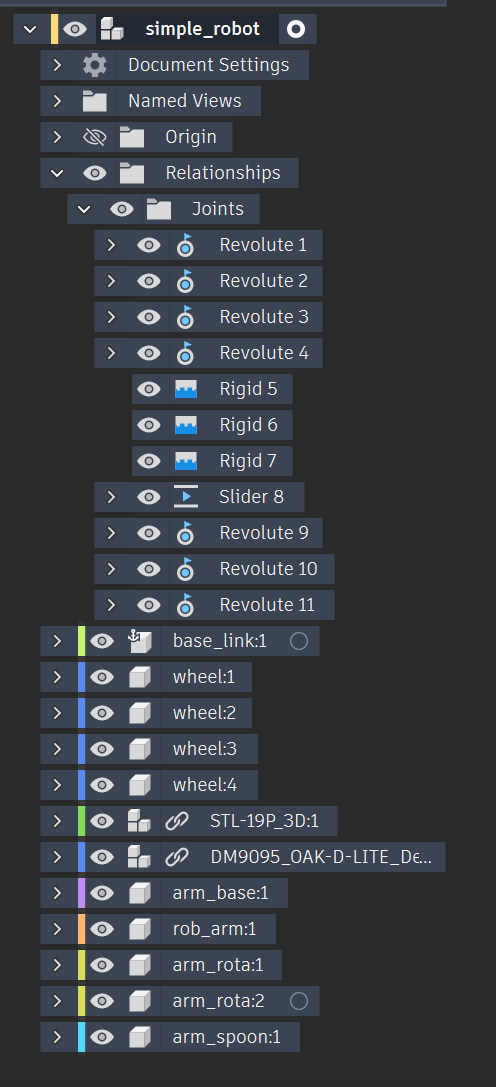
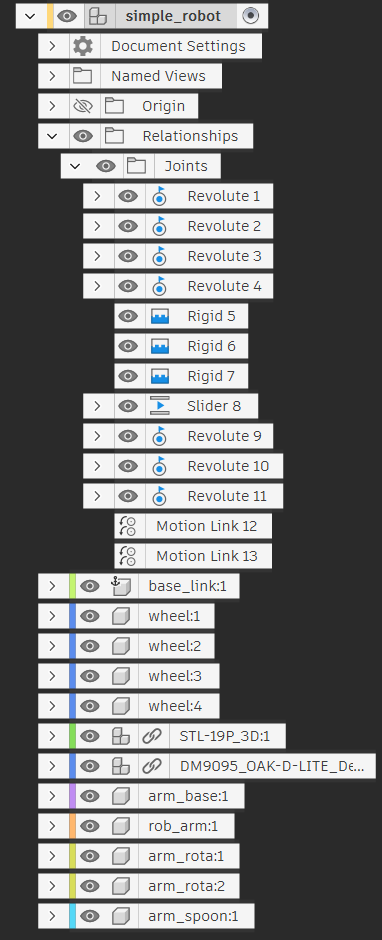
update with mirror

diff --git a/docs/open-questions.md b/docs/open-questions.md
@@ -25,7 +25,7 @@ When a question is answered, write the answer next to it (or move it to
 | Q4 | Are the masses on rft_robodog sane, i.e. do all bodies have materials? | **No, as exported 2026-11-06:** base 229 kg, one wheel 0.263 kg vs 2.065 kg, lidar no mass. Fix materials in Fusion. | [inertia](knowledge/inertia.md), [robodog](knowledge/robot-rft-robodog.md#notes-per-component) |
 | Q22 | rft_robodog export `ttt1` read no joints. Does the model have joints between the top-level components, and where are they (root component or inside a subcomponent)? | Unknown. Until joints exist in the root component, all links are fixed to the base. | [joints](knowledge/joints.md), [robodog](knowledge/robot-rft-robodog.md) |
 | Q23 | Why does the spoon_bot lidar (linked design, no material) give a 363.5% bbox mismatch although its mesh is placed correctly? | Unknown; maybe the occurrence `boundingBox` includes non-body geometry. Harmless there. | [mesh-export](knowledge/mesh-export.md) |
-| Q25 | Motion links in real Fusion: does `valueOne` belong to `jointOne`, does a positive value mean motion in the joint's positive direction (about `rotationAxisVector` / along `slideDirectionVector`), and does `isReversed` make joint two move the other way? | Yes to all three; multiplier = `valueTwo / valueOne`, negated when reversed. Check by moving the leader in RViz and in Fusion by the same amount. | [0006](proposals/0006-mimic-from-motion-links.md), [joints](knowledge/joints.md#mimic-joints-fusion-motion-links) |
+| Q25 | Motion links in real Fusion: does `valueOne` belong to `jointOne`, does a positive value mean motion in the joint's positive direction (about `rotationAxisVector` / along `slideDirectionVector`), and does `isReversed` make joint two move the other way? | Yes to all three; multiplier = `valueTwo / valueOne`, negated when reversed. Check by moving the leader in RViz and in Fusion by the same amount. **Seen 2026-11-09 on `simple_bot_v2`:** two links without Reverse work, including a flipped leader ([spoon_bot](knowledge/robot-spoon-bot.md#export-simple_bot_v2-mimic-from-motion-links-2026-11-09)); Reverse not tested. | [0006](proposals/0006-mimic-from-motion-links.md), [joints](knowledge/joints.md#mimic-joints-fusion-motion-links) |
 | Q26 | Which consumers of the package handle `<mimic>`: `joint_state_publisher_gui` (expected yes), the Isaac Sim URDF importer, ros2_control? | `joint_state_publisher_gui` hides mimic joints and moves them with the leader. Others not checked; nothing extra (e.g. ros2_control tags) is written. | [0006](proposals/0006-mimic-from-motion-links.md) |
 | Q24 | Does `transform2` of a child occurrence (`occ.childOccurrences`, e.g. the `base_link` inside an inserted arm design) give its world pose in real Fusion? | Yes (that is the documented purpose of `transform2`). Check by exporting a robot with a mount and the module on its own, then joining them. | [0005](proposals/0005-mount-points.md), [joints](knowledge/joints.md#mount-points-mount-true) |
 

diff --git a/docs/knowledge/robot-spoon-bot.md b/docs/knowledge/robot-spoon-bot.md
@@ -95,3 +95,23 @@ limits −90° … 90°. These match the limits worked back from the export.
 The Fusion limits in this table are worked back from the exported values.
 They come out as round numbers, which confirms that the values are returned
 in [0, 2π).
+
+## Export `simple_bot_v2`: mimic from motion links (2026-11-09)
+
+The second version of spoon_bot, with two Fusion motion links between the
+wheels. The first real export with motion links. The colcon build passes
+(Jazzy, 2026-11-09).
+
+| Follower | Leader | Fusion link | `multiplier` in `joints.yaml` | `<mimic multiplier>` in URDF |
+|---|---|---|---|---|
+| `wheel_3_joint` | `wheel_1_joint` | `Motion Link 12` | `1.0` | `-1.0` |
+| `wheel_4_joint` | `wheel_2_joint` | `Motion Link 13` | `1.0` | `1.0` |
+
+- `joints_override.yaml` sets `flip: true` on `wheel_1_joint` (URDF axis
+  `0 0 -1`). The macro multiplies the multiplier by the flip signs of
+  both joints, so `wheel_3_joint` gets `-1.0` and still turns the same way
+  as `wheel_1_joint` physically, as in Fusion.
+- The project owner tested it and reports that the mimic works: the
+  follower wheels move with their leaders.
+- Neither link has Reverse ticked, so the reversed case of Q25 is not
+  covered by this test.

diff --git a/docs/log.md b/docs/log.md
@@ -6,6 +6,17 @@ linked pages; this file is the short version.
 
 ---
 
+## 2026-11-09 — Mimic tested on simple_bot_v2
+
+**Done**
+- The project owner exported spoon_bot v2 (`simple_bot_v2`) with two motion
+  links between the wheels and reports that the mimic works. The
+  multiplier was negated as expected for the flipped leader `wheel_1_joint`
+  → [robot-spoon-bot.md](knowledge/robot-spoon-bot.md#export-simple_bot_v2-mimic-from-motion-links-2026-11-09).
+
+**Next**
+- A motion link with Reverse ticked, to close Q25.
+
 ## 2026-11-09 — Mimic joints from Fusion motion links (0006)
 
 **Done**
@@ -26,8 +37,9 @@ linked pages; this file is the short version.
 chains collapsed.
 
 **Next**
-- Export a model with motion links in real Fusion (e.g. a two-finger
-  gripper, one link with Reverse ticked) and check the signs in RViz (Q25).
+- ~~Export a model with motion links in real Fusion~~ Done on
+  `simple_bot_v2`, see the entry above. A link with Reverse ticked is
+  still untested (Q25).
 - Check mimic support in Isaac Sim and ros2_control (Q26).
 
 ## 2026-11-06 — Plain URDF for Isaac Sim

diff --git a/README.md b/README.md
@@ -48,7 +48,7 @@ camera, a lidar, a vertical slider and a 3-joint arm with a spoon.
 
 ### 1. One component per link
 
-![Components in the Fusion browser](docs/images/file_explorer.png)
+![Components, joints and motion links in the Fusion browser](docs/images/file_explorer.png)
 
 - Make a **top-level component named `base_link`**. It becomes the root
   link `<package>_base_link`.
@@ -146,6 +146,13 @@ supported. Link them in Fusion and the export writes a URDF `<mimic>`.
    `multiplier = second value / first value` in rad and m, negative when
    Reverse is ticked. The summary lists every motion link under
    `Motion links:`, and the reason for any that was ignored.
+
+In spoon_bot, the wheels on each side turn together: `Motion Link 12`
+makes `wheel:3` follow `wheel:1`, and `Motion Link 13` makes `wheel:4`
+follow `wheel:2`. Motion links are listed in the browser's **Joints**
+folder, below the joints (see the screenshot in
+[step 1](#1-one-component-per-link)). In RViz only `wheel_1_joint` and
+`wheel_2_joint` get a slider.
 
 Good to know:
 
